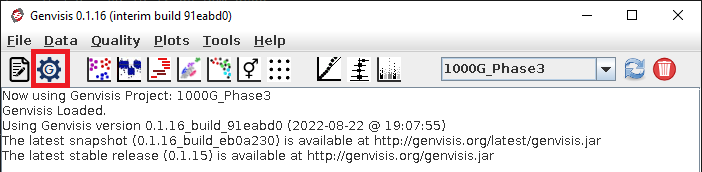
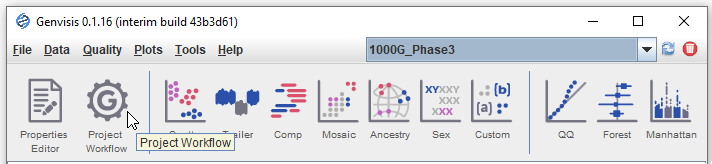
Updated Workflow images.

diff --git a/RunTheGenvisisWorkflow/introduction-to-the-workflow.md b/RunTheGenvisisWorkflow/introduction-to-the-workflow.md
@@ -1,6 +1,6 @@
 # Introduction to the Workflow
 
-Genvisis data processing is run from a workflow of steps that automate best practices. The Genvisis Workflow can be opened from the toolbar (check the *Workflow* button) or from **Data > Genvisis Project Workflow**.
+Genvisis data processing is run from a workflow of steps that automate best practices. The Genvisis Workflow can be opened from the toolbar (click the *Project Workflow* button) or from **Data > Genvisis Project Workflow**.
 
 ![Image of the Genvisis toolbar with Workflow icon highlighted](/Images/GenvisisToolBarHighlight.png)
 
